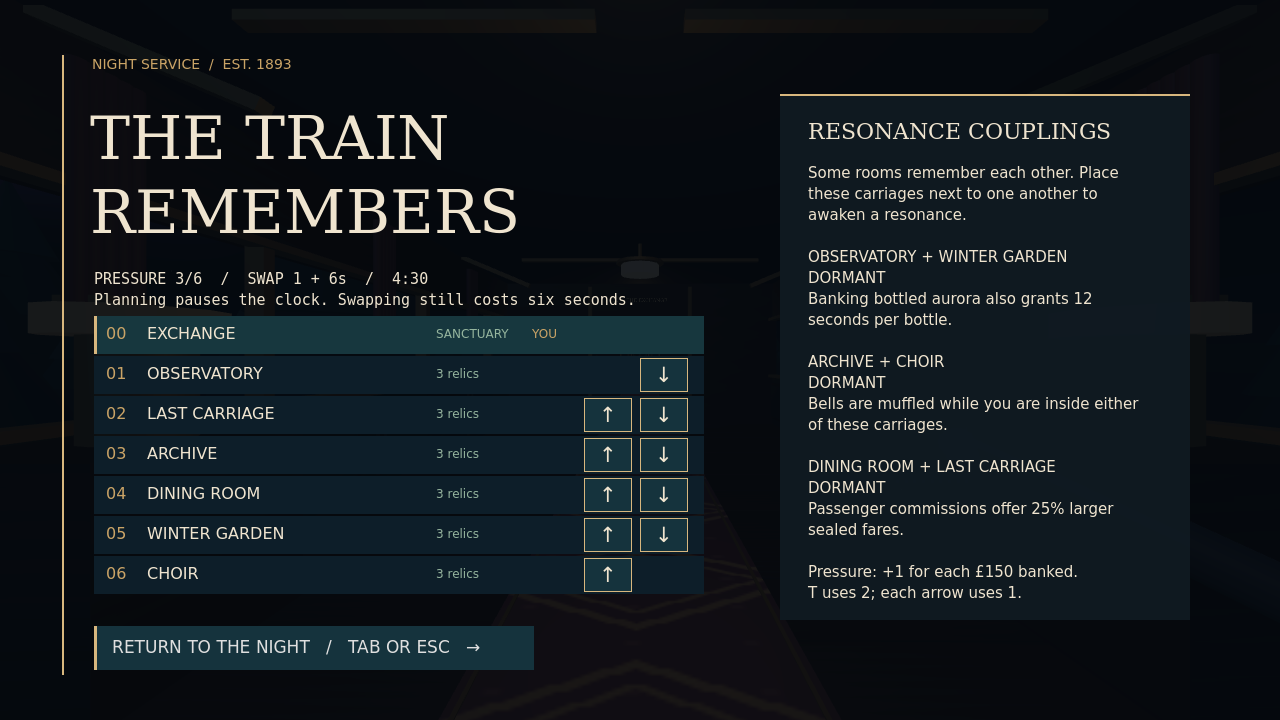
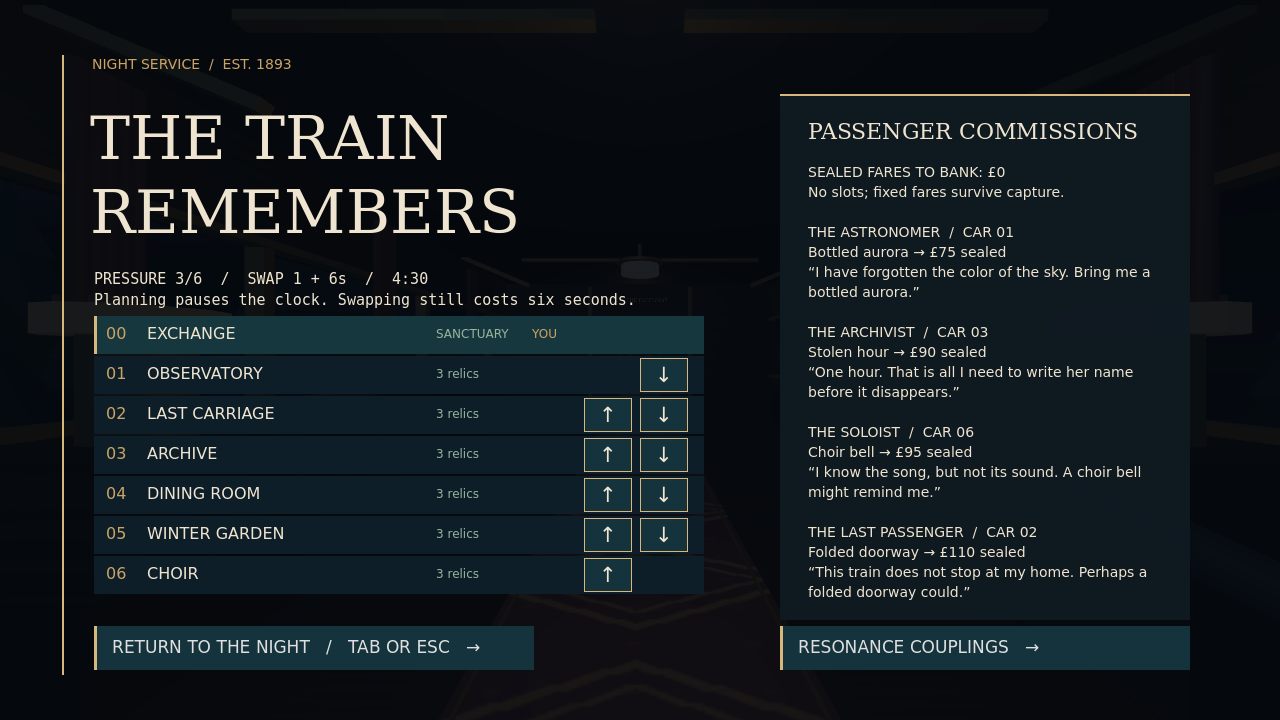
Add passenger requests and moving carriage locations to the route ledger

Changed region(s): [[0.5938, 0.1528, 0.9375, 0.9472]]

diff --git a/docs/DESIGN.md b/docs/DESIGN.md
@@ -157,3 +157,11 @@ Seven original, quiet twelve-second carriage textures add clock ticks, glass har
 Audio integration exposed an existing loop-length defect: imported WAVs use QOA compression, so raw byte count was truncating the music and rail loops. Loop boundaries now use decoded duration × sample rate. The fifty-check sound suite loads the actual imported resources and exercises the complete dawn/restart lifecycle. Eight new WAV files regenerate byte-for-byte, remain below clipping, and have zero-valued endpoints. The generator uses only Python's standard library; no external recordings are used.
 
 The full state/profile/geometry/sound suites, three scene seeds and walking route passed. Fresh Linux standalone smoke and Windows-through-Wine smoke also passed. Native Windows CI still needs to verify this revision. No human listening test or hardware frame-rate claim has been made. No final release has been declared.
+
+## Passenger ledger and fare wording
+
+The paused route ledger now has a passenger page showing all four requests, current carriage locations, current offers, completed thanks and the total sealed fares still to bank. Switching pages preserves the same route and switchboard controls. Locations follow actual passenger positions after shunting, and unaccepted offers reflect the current dining/last-carriage resonance. Completed entries do not imply an already banked fare remains pending.
+
+The page was rendered normally and with a completed-passenger/£75 presentation fixture at 960×540. That fixture used the real page button and an actual timetable rotation, verifying the astronomer's carriage changed from 01 to 02. Scene smoke passed after the new page and signal connection. The existing bell math is unchanged: bonuses apply to carried freight, while sealed fares retain their quoted value. HUD, relic prompt and guide wording now say this consistently.
+
+Native Windows CI passed the live-assessment checkpoint 5a46bf2 (40868649503) and audio checkpoint c41f87d (40870264952). This ledger revision still needs its own native check. No final release has been declared.

diff --git a/PLAYER_GUIDE.md b/PLAYER_GUIDE.md
@@ -29,7 +29,7 @@ Pause automatically stops the clock when the window loses focus. Sensitivity, so
 ## Freight
 
 - **Stolen hour:** banking it adds 18 seconds. Deep-carriage hours can be valuable lifelines.
-- **Choir bell:** each adds 25% to the entire delivery. Bells also make you easier to hear.
+- **Choir bell:** each adds 25% to all carried freight. Sealed passenger fares keep their quoted value. Bells also make you easier to hear.
 - **Folded doorway:** press F to consume one and return to the exchange with the rest of your freight. Its own cash value is sacrificed.
 - **Bottled aurora:** muffles your presence while carried; banking one restores your composure.
 
@@ -63,6 +63,8 @@ Press Tab to open the route ledger. It shows the current order of the carriages 
 ## The passengers
 
 Four travelers have unfinished business. Speak with E when facing one nearby. Each needs a particular kind of relic and offers a sealed fare in exchange. Accepting a commission consumes that relic; the fare does not occupy a satchel slot and survives a conductor encounter. Return to the exchange to bank it. Each passenger can be helped once per run. They travel with their carriage when you turn the timetable.
+
+Press Tab and choose **Passenger commissions** to review requests, current carriage numbers, offers and the travelers you have helped. The ledger also shows the sealed fares still waiting to be banked. Its **Resonance couplings** button returns to the pairing bonuses.
 
 ## The switchboard and resonances
 

diff --git a/README.md b/README.md
@@ -4,7 +4,7 @@ A native 3D game about impossible freight on the last train before dawn. Built i
 
 ![The midnight service crosses the viaduct](docs/screenshots/title.png)
 
-You owe the conductor £600. Explore seven art-deco carriages, decide which relics fit in your satchel, and bring them back to the exchange. Bells increase the value of an entire delivery but attract attention. Bottled hours buy time. A folded doorway can save a long walk home. The timetable lever moves the last carriage to the front—along with whatever, or whoever, is inside. Shunt neighboring carriages to awaken resonance bonuses. Four passenger commissions trade your tools for sealed fares and a different dawn. An escalating endless-service mode tracks your whole voyage.
+You owe the conductor £600. Explore seven art-deco carriages, decide which relics fit in your satchel, and bring them back to the exchange. Bells multiply carried freight but attract attention. Stolen hours buy time. A folded doorway can save a long walk home. The timetable lever moves the last carriage to the front—along with whatever, or whoever, is inside. Shunt neighboring carriages to awaken resonance bonuses. Four passenger commissions trade your tools for sealed fares and a different dawn. An escalating endless-service mode tracks your whole voyage.
 
 ![The winter garden and freight manifest](docs/screenshots/night-service.png)
 
